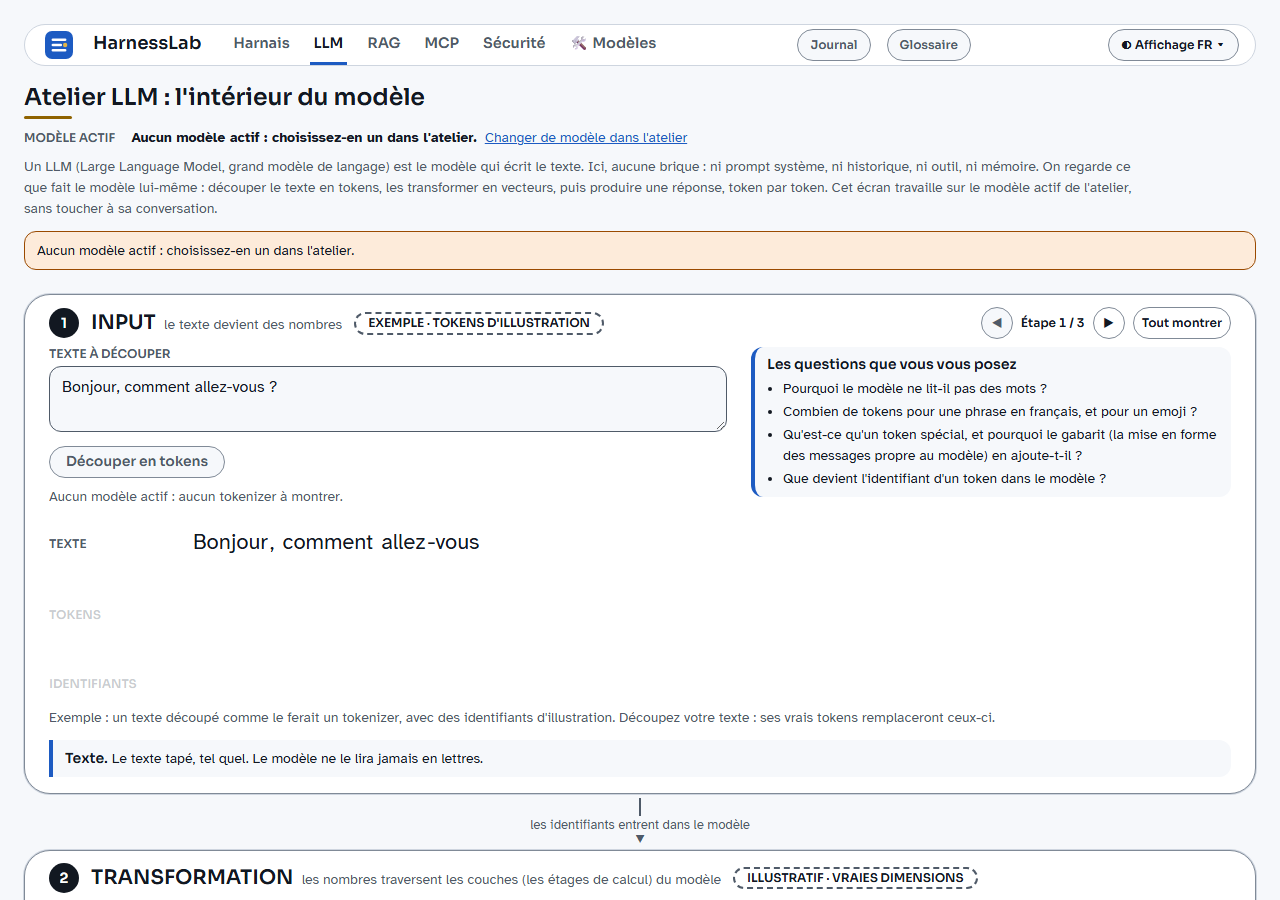
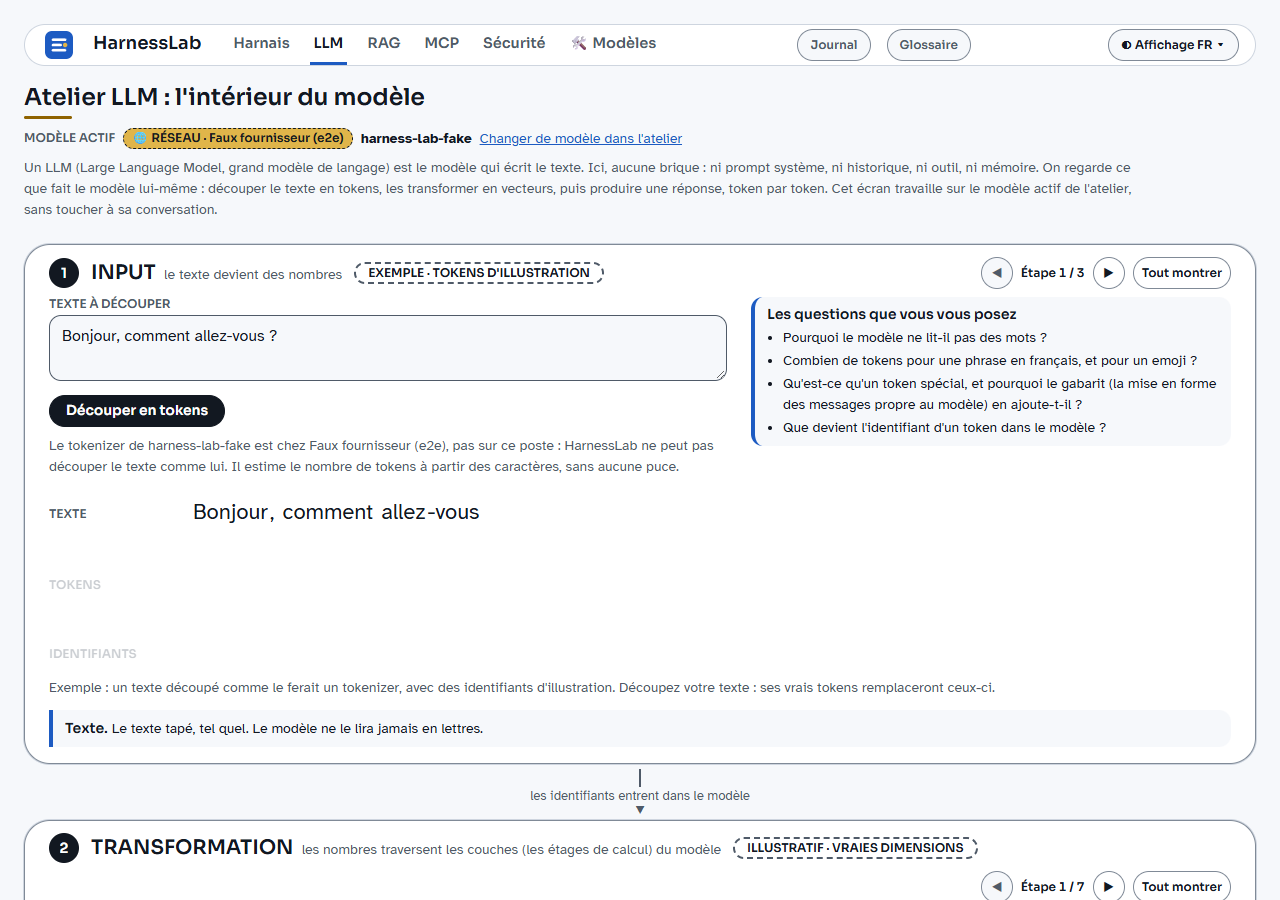
Revue passe 1 : DESIGN aligné (filet, palette), test par bloc, captures claires complètes
Claude-Session: https://claude.ai/code/session_013Ao9KA4hxeZXhrqkXDoPk8

Changed region(s): [[0.0, 0.1244, 1.0, 0.6844], [0.0312, 0.8711, 0.9688, 0.9956], [0.0312, 0.7156, 0.7812, 0.8711]]

diff --git a/tests/test_web_tokens.py b/tests/test_web_tokens.py
@@ -828,4 +828,14 @@ def test_the_gold_rule_sits_under_the_page_titles():
             assert _contrast(palette["title-rule"], palette[ground]) >= 3.0, (theme, ground)
     # The same values in the CSS: dark `:root`, light attribute block, light media query.
     tokens = (STATIC_DIR / "tokens.css").read_text(encoding="utf-8")
-    assert re.findall(r"--color-title-rule: (#\w+);", tokens) == ["#E3C26B", "#8F6300", "#8F6300"]
+    light_attr, light_media = ':root[data-theme="light"]', "@media (prefers-color-scheme: light)"
+    blocks = {
+        "dark :root": (tokens[: tokens.index(light_attr)], "#E3C26B"),
+        "light attribute": (
+            tokens[tokens.index(light_attr) : tokens.index(light_media)],
+            "#8F6300",
+        ),
+        "light media": (tokens[tokens.index(light_media) :], "#8F6300"),
+    }
+    for name, (block, value) in blocks.items():
+        assert re.findall(r"--color-title-rule: (#\w+);", block) == [value], name

diff --git a/_bmad-output/planning-artifacts/ux-designs/ux-agentic-harness-training-demo-2026-09-22/DESIGN.md b/_bmad-output/planning-artifacts/ux-designs/ux-agentic-harness-training-demo-2026-09-22/DESIGN.md
@@ -952,7 +952,7 @@ components:
 > |---|---|---|---|
 > | `surface` / `surface-raised` | `fond` / `surface` | `line` / `line-strong` | `trait` / `trait-fort` |
 > | `ink` / `ink-soft` / `muted` | `texte` / `texte-attenue` / `neutre` | `primary` / `primary-deep` / `primary-soft` | `primaire` / `primaire-vif` / `primaire-doux` |
-> | `accent` / `title-rule` / `hosting-network` | `accent` / `accent-aplat` | `warning` / `warning-line` / `warning-soft` | `alerte` / `alerte-texte` / `alerte-doux` |
+> | `accent` / `title-rule` / `hosting-network` | `accent` (`hosting-network` : `accent-aplat`) | `warning` / `warning-line` / `warning-soft` | `alerte` / `alerte-texte` / `alerte-doux` |
 > | `danger` / `danger-soft` | `erreur` / `erreur-doux` | `state-active`, `state-ok` | `succes` |
 > | `state-blocked`, `state-error` | `erreur` | `state-unavailable` | `neutre` |
 > | `ink-fill` / `ink-fill-edge` | `encre-pleine` / `trait-fort` | `on-ink` / `on-ink-soft` | `sur-encre` / `sur-encre-attenue` |
@@ -1084,12 +1084,12 @@ Une palette dessinée, jeton par jeton : chaque clé de `colors` a son jumeau `{
 | Groupe | Jeton | Clair | Sombre |
 |---|---|---|---|
 | Charte | `primary`, `primary-deep`, `primary-soft` | `#0B6B78`, `#084E58`, `#DCEFF1` | `#4FC1CF`, `#86D8E2`, `#123339` |
-| Charte | `accent`, `accent-soft` | `#B4500F`, `#FBE7D7` | `#F29A57`, `#3A2415` |
+| Charte | `accent`, `accent-soft` | `#8F6300`, `#FBF1D6` | `#E3C26B`, `#3A3112` |
 | Charte | `ink`, `ink-soft`, `muted`, `line` | `#141A1F`, `#4B5560`, `#737E85`, `#C9D1D3` | `#E7ECEE`, `#A2AFB7`, `#8C989F`, `#56605F` |
 | Charte | `surface`, `surface-raised` | `#F7F8F6`, `#FFFFFF` | `#0E1316`, `#161D21` |
 | Charte | `warning`, `danger`, `on-primary` | `#E8A317`, `#B42318`, `#FFFFFF` | `#F2C14E`, `#F28B82`, `#052227` |
 | Relief | `relief`, `relief-active`, `dot` | `#CFE3E6`, `#B8D6DB`, `#D3DDDF` | `#1B3A40`, `#24505A`, `#252F34` |
-| Hébergement | `hosting-network`, `hosting-boundary` | `#E8A317`, `#141A1F` | `#F2C14E`, `#E7ECEE` |
+| Hébergement | `hosting-network`, `hosting-boundary` | `#E0B54A`, `#141A1F` | `#E3C26B`, `#E7ECEE` |
 | États | `state-active`, `state-ok` | `#1D7337` | `#7CC59B` |
 | États | `state-blocked`, `state-error`, `state-unavailable` | `#B42318`, `#B42318`, `#737E85` | `#F28B82`, `#F28B82`, `#8C989F` |
 | Segments | `system-prompt`, `global-memory`, `tool-descriptions`, `history` | `#0B7A86`, `#617A12`, `#2F68D0`, `#50607A` | `#4FC1CF`, `#A9C64A`, `#7FA8F5`, `#9AAAC2` |

diff --git a/CHANGELOG.md b/CHANGELOG.md
@@ -7,11 +7,11 @@ Correctif : filet or des titres en thème clair.
 ### Contenu
 
 - **Filet or en clair** : `--color-title-rule` prend la valeur `accent` de la charte v2.1 (`#8F6300` en clair, 5,31:1 sur `surface`) au lieu de `accent-aplat` (`#E0B54A`, 1,9:1). Le sombre est inchangé (`#E3C26B`). `DESIGN.md` et `tests/test_web_tokens.py` réalignés (valeur par thème, contraste 3:1 sur `surface` et `surface-raised` dans les deux thèmes).
-- **Captures** : `docs/media/charte-v2/` refaites en clair pour les pages à filet (LLM, RAG, MCP, Sécurité, Modèles).
+- **Captures** : `docs/media/charte-v2/` refaites en clair pour les pages à filet (LLM, RAG, MCP, Sécurité, Modèles), diagnostic terminé et modèle choisi.
 
 ### Limites
 
-- Aucune nouvelle.
+- Les captures sont prises sur la pile e2e (faux modèle cloud, réseau coupé) : l'avertissement « réseau » du diagnostic y est normal.
 
 ## 2.1.0 — 2026-11-06
 
